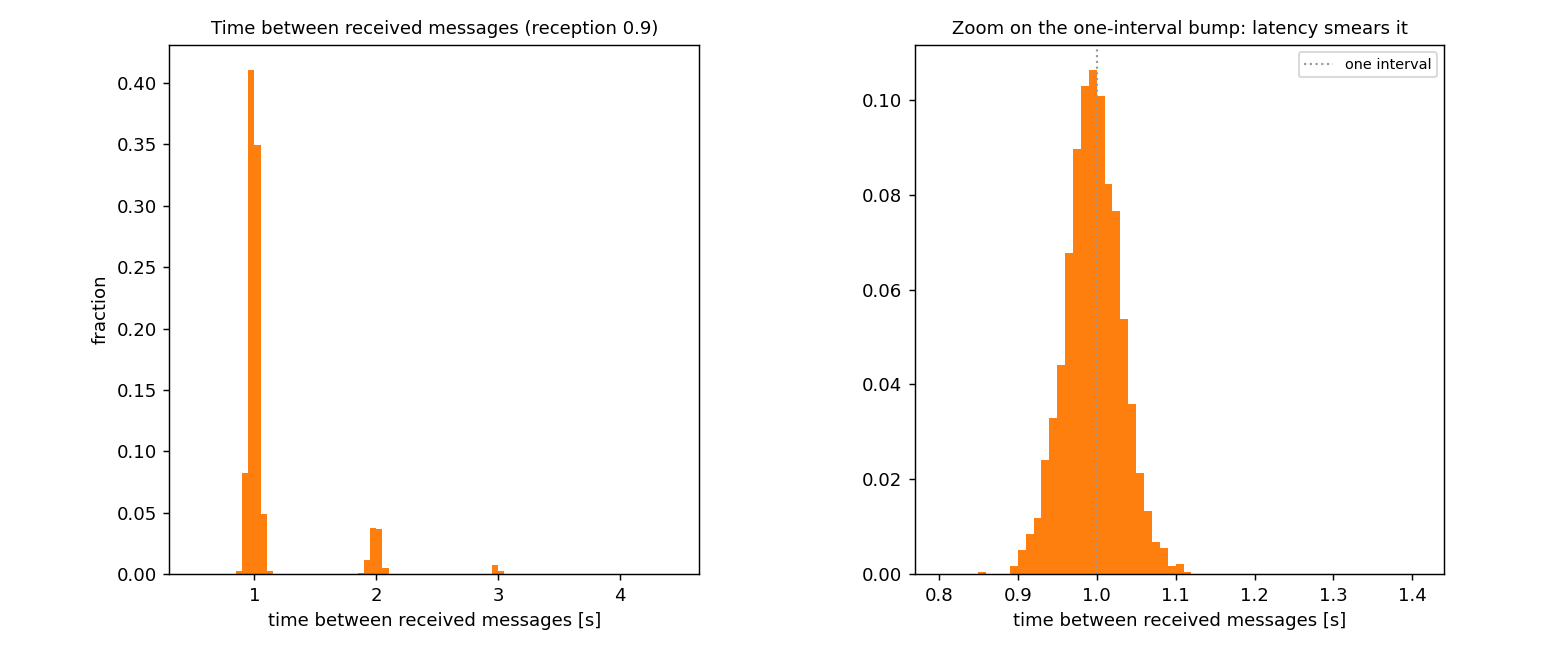
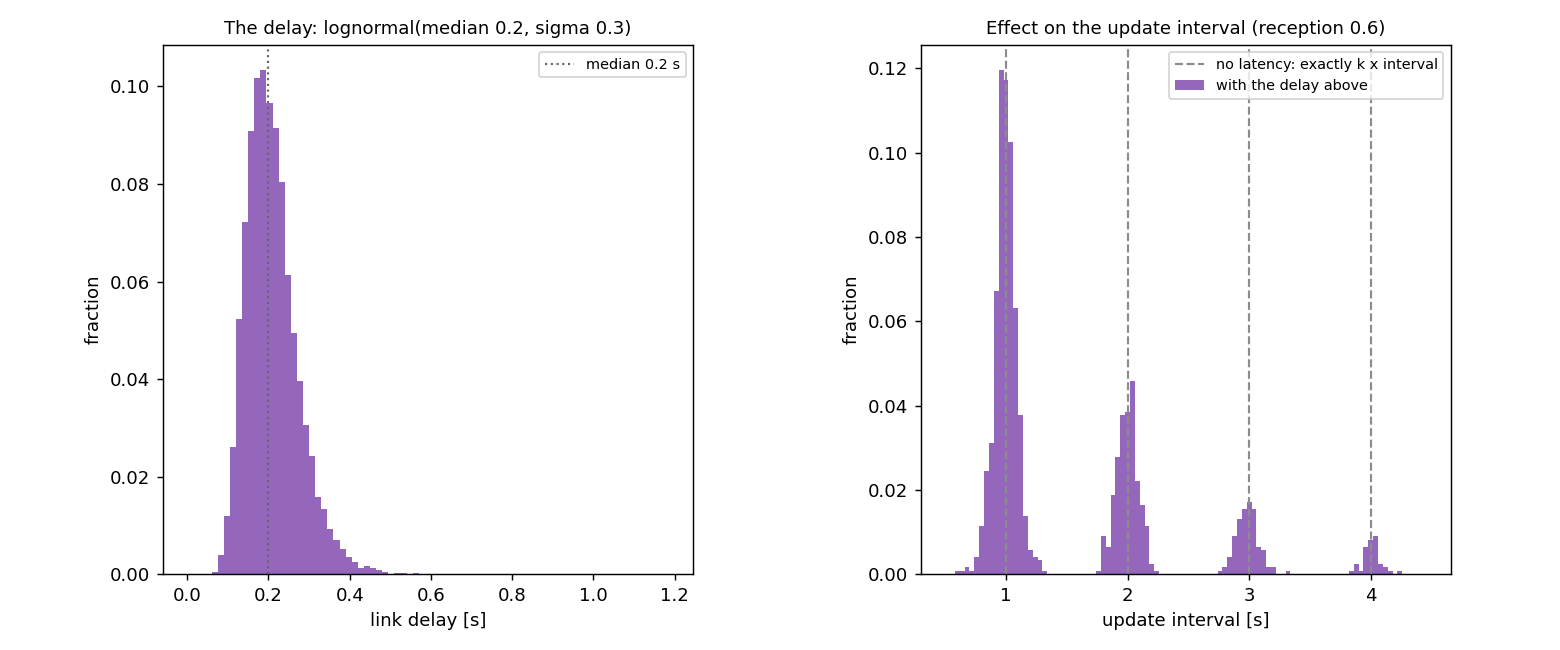
update CNS

diff --git a/docs/modules/cns/communication.md b/docs/modules/cns/communication.md
@@ -2,6 +2,18 @@
 
 Communication is the **C** of [CNS](index.md). Once [navigation](navigation.md) has produced a measurement, `Comm` decides whether it reaches the other aircraft, and how late. The model, [`Comm`](https://github.com/fazlurnu/OpenCDaRR/blob/main/opencdarr/cns/communication.py), captures the *effect* of a real datalink like ADS-B or ADS-L, where messages can be lost, delayed, and received at irregular update intervals. Note that this model focuses on **reception** and **latency**, without simulating the message protocol itself.
 
+Six settings act on the path from one aircraft's broadcast to another's picture of it. Three belong to the **transmit schedule** — when a message is sent — and three to the **channel**, what happens to it afterwards:
+
+| Setting | Where it lives | Unit | What it does |
+|---|---|---|---|
+| `interval` | `BroadcastSchedule` | s | how often an aircraft transmits (`at_rate` takes Hz instead) |
+| `phase` | `BroadcastSchedule` | s | per-aircraft start offset, so transmitters are not synchronised |
+| `jitter` | `BroadcastSchedule` | s | per-transmission slot dither, `U(-j, +j)` on each gap |
+| `reception_prob` | `Comm` | probability | that a message is delivered, per directed link |
+| `latency` | `Comm` | s | how late a delivered message is |
+| `tx_fail_rate` / `rx_fail_rate` | `RadioHealth` | **per hour** | a transmitter or receiver that fails for a stretch of time; mean time to failure is `1 / rate` hours |
+| `tx_recover_rate` / `rx_recover_rate` | `RadioHealth` | **per hour** | how quickly it comes back; `0` (the default) makes the failure permanent |
+
 ## Reception and latency, per directed link
 
 When an aircraft broadcasts, that message is offered to every other aircraft **independently**. For each one, `Comm` draws two things:
@@ -32,6 +44,9 @@ comm = Comm(reception_prob={("OWN", "INT"): 0.80,    # OWN's broadcasts often lo
 
 The same distance does not guarantee the same reception. A physical obstruction, an antenna orientation, or a stronger receiver on one side can make one direction more reliable than the other, even between the same two aircraft.
 
+!!! note "Two orderings, deliberately opposite"
+    `reception_prob` is keyed `(source, receiver)` — the link *carrying* a broadcast. What a receiver ends up holding is keyed `(receiver, source)` — what B *knows about* A. They answer different questions, so `("AC1", "AC2")` is the link on which AC2's view of AC1 arrives. A link absent from the mapping defaults to 1.0, which is why a mistyped identifier would silently apply no loss at all; `validate_ids` checks the mapping against the real fleet when the run is built, so the typo fails loudly instead.
+
 ## Reception probability and the update interval
 
 Reception and latency matter only through what they do to a receiver's **picture of the traffic**. What an aircraft acts on is never the intruder's current state — it is the last position it received. So the quantity that matters is the time between one received position update and the next, called **update interval**. When every message is received the update interval is just the broadcast interval.
@@ -45,16 +60,20 @@ Two things follow. First, since reception is a Bernoulli trial, the number of br
 
 ## Latency: a small smear, not a longer gap
 
-The other half of the channel is **latency**, the delay between a message being sent and received. At a 1 Hz broadcast rate it is nearly invisible. A delay drawn from `lognormal_latency(median=0.1, sigma=0.25)` is far below the one-second interval, so a message still arrives before the next decision. It never *lengthens* the update interval, it only spreads it slightly around one interval.
+The other half of the channel is **latency**, the delay between a message being sent and received. At a 1 Hz broadcast rate it is nearly invisible. A delay drawn from `lognormal_latency(median=0.2, sigma=0.3)` has a median of 0.2 s — a fifth of the interval — so a message still lands well before the next decision. It never *lengthens* the update interval, it only spreads it around one.
 
 <figure markdown="span">
-  ![Two panels of the time between received messages at reception 0.9, with a lognormal(0.1, 0.25) latency. Left: the full distribution, geometric bumps at one, two and three seconds set by dropped messages. Right: zoomed to the one-second bump, the sub-second latency smears it over roughly 0.9 to 1.1 seconds but never past one second.](../../assets/img/comm-latency.png)
-  <figcaption>The <strong>time between messages received</strong> (reception 0.9, lognormal(0.1, 0.25) latency). Left: geometric bumps at multiples of the interval, set by dropped messages. Right: zoomed to the first bump, where sub-second latency only smears it to roughly 0.9 to 1.1 s, never past the interval. Latency bites only as it nears the broadcast interval; here, missed messages dominate.</figcaption>
+  ![Two panels. Left: the lognormal delay distribution, a right-skewed hump peaking near 0.2 seconds with a thin tail out to about 0.6 seconds. Right: the update-interval distribution on a link at reception 0.6, four separate bumps centred on one, two, three and four seconds, each smeared around a dashed reference line marking where that bump would sit with no latency at all.](../../assets/img/comm-latency.png)
+  <figcaption>Left: the delay itself, <code>lognormal(median 0.2, sigma 0.3)</code>. Right: what it does to the update interval on a lossy link (reception 0.6). Without latency every gap is exactly a whole number of intervals — the dashed lines — because a gap is just a count of dropped messages. Adding the delay <strong>smears each bump around its multiple without moving it</strong>: the mean update interval shifts by 0.003 s, from 1.634 s to 1.637 s, while the spread grows 3%. Every extra interval is a missed message, not a slow one.</figcaption>
 </figure>
+
+That separation is what makes the two settings independent knobs. Reception sets *which* bump a gap falls into; latency only sets how wide each bump is. A delay would have to approach the broadcast interval before it started merging one bump into the next.
 
 ## When a broadcast happens
 
-Reception and latency are the **channel**; *when* a message is sent is the **transmit schedule**, a separate [`BroadcastSchedule`](https://github.com/fazlurnu/OpenCDaRR/blob/main/opencdarr/cns/broadcast.py) that mirrors the ADS-B split of transmission timing from reception. It sets the broadcast `interval`, an optional per-aircraft **phase** offset (unsynchronised transmitters), and per-transmission **jitter** (the slot dithering real ADS-B uses against co-channel collisions). The jitter gives each update-interval bump its **spread**; without it the bumps stay sharp.
+Reception and latency are the **channel**; *when* a message is sent is the **transmit schedule**, a separate [`BroadcastSchedule`](https://github.com/fazlurnu/OpenCDaRR/blob/main/opencdarr/cns/broadcast.py) that mirrors the ADS-B split of transmission timing from reception. It sets the broadcast `interval` (or `at_rate` in hertz), an optional per-aircraft **phase** offset (unsynchronised transmitters), and per-transmission **jitter** (the slot dithering real ADS-B uses against co-channel collisions). The jitter gives each update-interval bump its **spread**; without it the bumps stay sharp.
+
+The default schedule aligns every aircraft at `t = 0`. That is the pessimally correlated case — the whole fleet updates on the same tick — so a phase offset is closer to real unsynchronised transmitters than the default is.
 
 The resulting update-interval distribution (with **reception probability**, **latency**, and **jitter**) closely matches what is observed in real ADS-B data, both studied by the [TU Delft ATM/CNS group](https://journals.open.tudelft.nl/joas/article/view/7895) ([and here](https://pure.tudelft.nl/ws/portalfiles/portal/31444950/12th_ATM_RD_Seminar_paper_83.pdf))
 
@@ -63,8 +82,51 @@ The resulting update-interval distribution (with **reception probability**, **la
   <figcaption>The update interval on a link at reception 0.9. Left: a ±0.1 s broadcast jitter spreads each geometric bump around its multiple of the interval. Right: adding channel latency on top barely changes it; the spread is the transmitter's, not the channel's, which is why jitter is a transmit-schedule setting and latency a channel one.</figcaption>
 </figure>
 
+## Radio failure
+
+`reception_prob` drops one message and re-draws from scratch on the next broadcast, so it has no memory. A radio that is *out* for a stretch of time cannot be expressed with it. That is what `RadioHealth` adds — a **link gate**, an effect layered onto the channel that can veto a directed link before reception is drawn for it.
+
+Each aircraft's transmitter and receiver fail independently, at a rate in **events per hour** — the unit reliability is normally quoted in — so the mean time to failure is `1 / rate` hours whatever the broadcast cadence. Quoting a probability per broadcast instead would tie reliability to the interval, and a cadence sweep would then be moving two things at once. The recover rates default to zero, which makes a failure permanent for the rest of the encounter; give them a value and the radio is intermittent instead.
+
+```python
+from opencdarr.cns import TransceiverComm
+
+comm = TransceiverComm(reception_prob=0.9, rx_fail_rate=3.6)   # MTTF ~17 min, no recovery
+```
+
+Encounters are short next to any realistic mean time between failures, so pick the rate against the length of the run rather than against a datasheet. The probability that a given radio has failed by the end of an encounter of `T` seconds is `1 - exp(-rate · T / 3600)`:
+
+| `rx_fail_rate` [1/h] | Mean time to failure | Failed within a 250 s encounter |
+|---|---|---|
+| `0.036` | 28 h | 0.25% — about 1 encounter in 400 |
+| `3.6` | 17 min | 22% |
+| `36` | 100 s | 92% |
+
+A rate low enough to be realistic will almost never fire in a single run, so an outage study is a Monte Carlo over many encounters, not one long one.
+
+The two failures are **mirror images**. A down *transmitter* means that aircraft's broadcast is offered to nobody, so it goes silent while still seeing everyone. A down *receiver* means it is offered nothing, so it goes blind while everyone still sees it.
+
+<figure markdown="span">
+  ![Two panels of perceived ground speed against time for three aircraft, with AC1's radio failing at fifteen seconds. Left: AC1's transmitter fails, and both AC2's and AC3's staircase views of AC1 flatten at the failure while AC1's true speed continues to oscillate away from them. Right: AC1's receiver fails, and AC1's views of AC2 and AC3 both flatten instead, while their true speed continues. Before the failure the poorer link's staircase is visibly coarser than the better link's.](../../assets/img/comm-radio-failure.png)
+  <figcaption>AC1's radio fails at 15 s, over two links of different quality (<code>AC1 → AC2</code> at reception 0.9, <code>AC1 → AC3</code> at 0.5). Left: a failed <strong>transmitter</strong> freezes what everyone else knows about AC1 — by 40 s the better-informed observer is off by 9.8 m/s. Right: a failed <strong>receiver</strong> freezes AC1's own picture of the others instead, off by 3.0 m/s, while their view of AC1 stays current. Before the failure, the poorer link updates in visibly coarser steps.</figcaption>
+</figure>
+
+Either way the affected receiver keeps **holding** what it last got ([surveillance](surveillance.md)) and keeps deciding on data that ages for as long as the outage lasts. That is why an outage is not the same experiment as `reception_prob = 0`: at zero reception a pair never hears of each other at all and flies its nominal path, where an outage leaves each side manoeuvring against a fix that is quietly going stale.
+
+Telling the two failures apart needs **at least three aircraft**. With two, "AC1's transmitter died" and "AC2's receiver died" sever the same single link and leave an identical state, so a pairwise encounter cannot distinguish them and a sweep of `tx_fail_rate` against `rx_fail_rate` would be moving one parameter twice.
+
+!!! warning "Estimate an outage study by plain Monte Carlo, not by importance splitting"
+    A radio failure is a discrete jump that minimum separation carries no information about, so the [rare-event](../../rare-event/index.md) shells cannot steer toward it. Use plain Monte Carlo, or condition on the failure time and reweight.
+
 ## In the code
 
-`Comm` lives in [`opencdarr/cns/communication.py`](https://github.com/fazlurnu/OpenCDaRR/blob/main/opencdarr/cns/communication.py). It is switched on by passing `communication=` (and its own RNG substream `comm_rng=`, kept separate from the navigation stream) to `run_encounter` or `run_fleet`; without it, delivery is instant and perfect. A decision's view of another aircraft is then whatever [surveillance](surveillance.md) holds for that link — the last message it delivered, or nothing before first contact. The figure on this page is produced by [`scripts/handbook/communication.py`](https://github.com/fazlurnu/OpenCDaRR/blob/main/scripts/handbook/communication.py).
+`Comm` lives in [`opencdarr/cns/communication.py`](https://github.com/fazlurnu/OpenCDaRR/blob/main/opencdarr/cns/communication.py). It is switched on by passing `communication=` (and its own RNG substream `comm_rng=`, kept separate from the navigation stream) to `run_encounter` or `run_fleet`; without it, delivery is instant and perfect. The transmit schedule is passed alongside as `schedule=`, and a non-zero `jitter` takes its own `broadcast_rng=`. A decision's view of another aircraft is then whatever [surveillance](surveillance.md) holds for that link — the last message it delivered, or nothing before first contact.
+
+Effects beyond reception and latency are added as **link gates** rather than by subclassing: a gate owns its own state, and several compose, so a radio failure and a terrain mask are two gates rather than a new class for the combination. To write one — or your own latency shape, broadcast rate, or a whole channel — see [Build your own → Communication](../../build-your-own/cns/communication.md).
+
+The figures on this page are produced by [`scripts/handbook/communication.py`](https://github.com/fazlurnu/OpenCDaRR/blob/main/scripts/handbook/communication.py).
+
+!!! note "Run it yourself"
+    Every setting on this page is exercised end to end in [`examples/handbook/communication.ipynb`](https://github.com/fazlurnu/OpenCDaRR/blob/main/examples/handbook/communication.ipynb) — one tick through the whole stack, each effect on its own, and the four extension points.
 
 [^adsb]: The reception-probability formulation — a Bernoulli trial per message, with the geometric update-interval distribution it produces — follows Rahman, Ellerbroek, and Hoekstra, *Modelling ADS-B Reception Probability using OpenSky Data*, Journal of Open Aviation Science (Proceedings of the 12th OpenSky Symposium).

diff --git a/docs/build-your-own/cns/communication.md b/docs/build-your-own/cns/communication.md
@@ -1,0 +1,189 @@
+# Communication — extending the channel
+
+[`Comm`](../../modules/cns/communication.md) delivers a broadcast over each directed
+link with a reception probability and a latency. Four ways to change what it does,
+in order of how much you have to write: the first two are configuration, the third
+adds an effect to the standard channel, and the fourth replaces the channel.
+
+## Your own broadcast rate
+
+*When* a message is sent is a `BroadcastSchedule`, separate from the channel and
+taken by both runners. Give it an `interval` in seconds, or `at_rate` in hertz:
+
+```python
+from opencdarr.cns.broadcast import BroadcastSchedule
+
+BroadcastSchedule(interval=0.5)     # every half second
+BroadcastSchedule.at_rate(2.0)      # the same thing, in Hz
+```
+
+The default schedule starts every aircraft at `t = 0`, so the whole fleet updates on
+the same tick. Two settings break that up — a per-aircraft `phase` offset, and a
+per-transmission `jitter` of \(U(-j, +j)\) added to each gap, which is the slot
+dithering real ADS-B uses. Jitter leaves the mean cadence unchanged:
+
+```python
+BroadcastSchedule(interval=1.0, phase=[0.0, 0.45], jitter=0.15)
+```
+
+Pass it as `schedule=` to `run_fleet` or `run_encounter`. A non-zero `jitter` is a
+random draw, so it needs its own generator:
+
+```python
+out = run_fleet(agents, schedule=BroadcastSchedule(interval=1.0, jitter=0.2),
+                broadcast_rng=generator(bc_seq), **cdr)
+```
+
+From a configuration file the same three are `broadcast_interval`,
+`broadcast_jitter` and `broadcast_random_phase` under `simulation`.
+
+!!! note "The cadence moves the result, so hold it fixed when sweeping something else"
+    On a 90° crossing conflict with GNSS noise, dropping 1 Hz to 0.5 Hz costs 198 m
+    of minimum separation — 56% of the 1 Hz result — because the resolver acts on a
+    picture twice as old. Reliability parameters are quoted per **second** rather
+    than per broadcast for the same reason: a cadence sweep should move one thing.
+
+## Your own latency model
+
+A `LatencyDistribution` is any callable taking a generator and returning a delay in
+seconds. There is no base class to inherit and nothing to register — a plain
+function is enough. The built-ins `constant_latency`, `uniform_latency` and
+`lognormal_latency` are just factories returning one.
+
+A bimodal delay, where most messages arrive quickly but a fraction need a
+retransmission:
+
+```python
+def bimodal_latency(fast, slow, p_slow):
+    """Most messages arrive quickly; a fraction take much longer."""
+    def draw(rng):
+        return slow if rng.random() < p_slow else fast
+    return draw
+
+comm = Comm(reception_prob=1.0, latency=bimodal_latency(0.05, 1.2, p_slow=0.15))
+```
+
+Draw from the generator you are handed rather than from a global source, so the run
+stays reproducible from its seed. A distribution that draws **nothing** is fine —
+`constant_latency` is exactly that — but note it changes how much randomness a tick
+consumes, so a run using it is not stream-comparable with one that draws.
+
+## Your own link gate
+
+A `LinkGate` adds one effect to the standard channel. It answers a single question,
+*may this broadcast be offered on this directed link right now*, and carries whatever
+state it needs to answer it across ticks. Gates **compose**: a link is offered only
+if every gate admits it, so a radio failure and a transmit duty cycle are two gates
+rather than a new class for the combination.
+
+Three methods — `initial` returns the gate's starting state, `evolve` advances that
+state once per step, and `admits` decides one link:
+
+```python
+from dataclasses import dataclass
+from opencdarr.cns import LinkGate
+
+@dataclass(frozen=True)
+class DutyCycle(LinkGate):
+    """A transmitter that is only on for part of each period."""
+
+    period: float = 4.0
+    on_time: float = 1.0
+
+    def initial(self):
+        return 0.0                       # seconds elapsed so far
+
+    def evolve(self, own, receivers, elapsed, rng):
+        return own + elapsed             # draws nothing: deterministic
+
+    def admits(self, own, source, receiver):
+        return (own % self.period) < self.on_time
+```
+
+Then hand it to the channel, alone or beside another:
+
+```python
+from opencdarr.cns import Comm, RadioHealth
+
+# RadioHealth's four rates are in events per hour: 3.6/h is a receiver
+# with a mean time to failure of about 17 minutes.
+comm = Comm(reception_prob=0.9, gates=(RadioHealth(rx_fail_rate=3.6), DutyCycle()))
+```
+
+Each gate's state rides in `CommState.gates`, positionally, and threads through the
+run like the rest of the comm state.
+
+Two rules are worth knowing before writing one.
+
+**A veto is not `reception_prob = 0`.** `admits` is consulted *ahead of* the
+reception draw, so a denied link consumes no randomness at all. Returning a zero
+probability instead would spend one draw per suppressed link and move every number
+after it. This is why the contract is a boolean and not a multiplier — an effect
+that *modulates* the probability leaves the draw in place, and belongs in
+`reception_prob` rather than in a gate.
+
+**Draw a constant number of times in `evolve`, if you draw at all.** `RadioHealth`
+makes its two draws per aircraft every step whatever the current health and whatever
+the rates, including when a rate is zero. That keeps the stream position a function
+of the roster and the tick count rather than of the failure history, so sweeping a
+rate moves the outages without shifting the reception and latency draws underneath
+them.
+
+Implement the gate as a frozen dataclass, so the experiment cache can key on it by
+value; a plain object's `repr` carries a memory address and is not stable across
+processes.
+
+## Your own channel
+
+When the effect is not a veto on top of Bernoulli reception — a queue, a
+retransmission protocol, a bandwidth budget shared across the fleet — replace the
+channel itself. Subclass `CommunicationModel` and implement `step`, plus
+`initial_state` if the model needs memory of its own.
+
+A shared budget of one delivery per tick, fleet-wide:
+
+```python
+from dataclasses import dataclass
+from opencdarr.cns import CommState
+from opencdarr.cns.base import CommunicationModel
+
+@dataclass(frozen=True)
+class TokenState(CommState):
+    """A CommState carrying this model's own memory."""
+    tokens: int = 0
+
+class TokenBucket(CommunicationModel):
+    def __init__(self, capacity=1):
+        self.capacity = capacity
+
+    def initial_state(self):
+        return TokenState(tokens=self.capacity)
+
+    def step(self, state, broadcasts, receivers, t, rng):
+        budget, held = self.capacity, dict(state.held)
+        for msg in broadcasts:
+            for receiver in receivers:
+                if receiver == msg.source or budget == 0:
+                    continue
+                held[(receiver, msg.source)] = msg
+                budget -= 1
+        return TokenState(held=held, tokens=budget)
+```
+
+`step` must be **pure**: thread the state in and return a new one rather than
+mutating it, so a cloned run can never write through to its parent. Returning your
+own `CommState` subclass from `initial_state` is what puts the model's memory in
+place before the first tick — a model written this way fails loudly on a missing
+`initial_state` rather than quietly working around a bare `CommState`.
+
+It then drops into the stack like any other model:
+
+```python
+out = run_fleet(agents, communication=TokenBucket(capacity=1),
+                comm_rng=generator(comm_seq), **cdr)
+```
+
+!!! note "Run it yourself"
+    All four extension points are worked end to end in
+    [`examples/handbook/communication.ipynb`](https://github.com/fazlurnu/OpenCDaRR/blob/main/examples/handbook/communication.ipynb),
+    alongside each of the channel's own settings.

diff --git a/docs/build-your-own/cns/index.md b/docs/build-your-own/cns/index.md
@@ -5,9 +5,11 @@ Model your own communication, navigation, and surveillance by subclassing
 (`perceived`) — see `GnssNavigation`, `Comm`, and `LastKnown` for the reference
 implementations.
 
+- **[Communication](communication.md)** — change the broadcast rate, write your own
+  latency shape, add a composable link gate, or replace the channel outright.
 - **[Navigation](navigation.md)** — add your own position- or velocity-error
   distribution without subclassing: a distribution is just a callable, so a plain
   function (or a calibrating factory) is enough.
 
 !!! note "Draft"
-    Communication and surveillance recipes to be written.
+    Surveillance recipes to be written.
